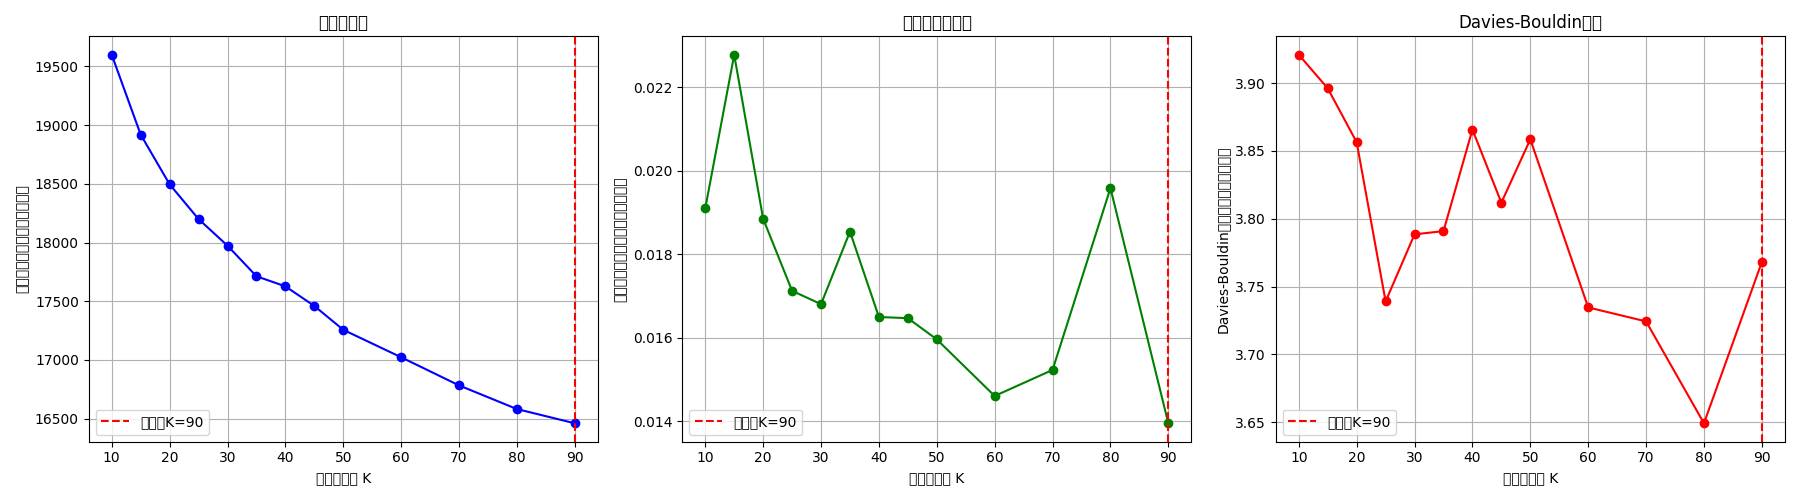
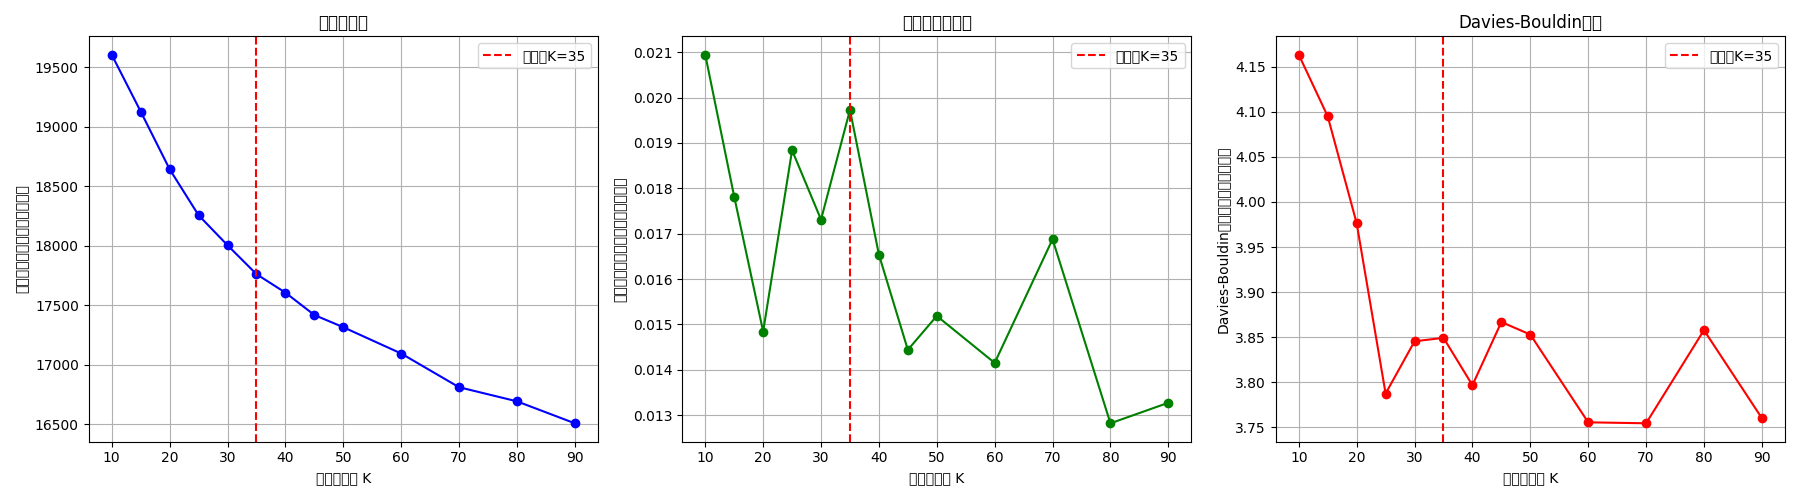
クラスタ数の評価スクリプトの古い K 参照を直し、再評価を実施
評価結果の表示とグラフの基準線が K=90 のまま残っていた。K は 100 から
35 へと変わっており、再評価しても誤った基準線が描かれる状態だった。
CURRENT_K として一箇所にまとめ、デフォルトの候補にも 35 を含めた。

重複除去後の 1,077,442 件で K を再評価した結果、K=35 を維持する。

  シルエット係数  0.0128〜0.0209（最高は K=10 の 0.0209、K=35 は 0.0197）
  Davies-Bouldin  3.7543〜4.1634（最低は K=70、K=35 は 3.8492）
  イナーシャ      K=10→90 で 15.8% 減のみ、肘は見えない

シルエット係数がどの K でも 0.02 前後で、クラスタがほとんど分離して
いない。レビューの埋め込みが連続的に分布しており、明確な塊が存在しない。
指標同士も食い違う（シルエットは K=10、Davies-Bouldin は K=70 を指す）。
K=35 との差はいずれも誤差の範囲で、変更しても推薦品質は改善しない。

diff --git a/20251220/pipeline/04_clustering/evaluate_cluster_number.py b/20251220/pipeline/04_clustering/evaluate_cluster_number.py
@@ -53,7 +53,10 @@ def load_sample_vectors(sample_size=50000):
     print(f"読み込み完了: {X.shape}")
     return X
 
-def evaluate_clusters(X, k_values=[10, 20, 30, 40, 50, 75, 100, 150, 200]):
+CURRENT_K = 35   # review_clustering.py の K と揃える
+
+
+def evaluate_clusters(X, k_values=[10, 20, 30, 35, 40, 50, 60, 75, 100, 150]):
     """
     異なるクラスタ数で評価
     """
@@ -112,7 +115,7 @@ def plot_results(results):
     axes[0].set_ylabel('イナーシャ（低いほど良い）')
     axes[0].set_title('エルボー法')
     axes[0].grid(True)
-    axes[0].axvline(x=90, color='r', linestyle='--', label='現在のK=90')
+    axes[0].axvline(x=CURRENT_K, color='r', linestyle='--', label=f'現在のK={CURRENT_K}')
     axes[0].legend()
 
     # シルエット係数
@@ -121,7 +124,7 @@ def plot_results(results):
     axes[1].set_ylabel('シルエット係数（高いほど良い）')
     axes[1].set_title('シルエット係数')
     axes[1].grid(True)
-    axes[1].axvline(x=90, color='r', linestyle='--', label='現在のK=90')
+    axes[1].axvline(x=CURRENT_K, color='r', linestyle='--', label=f'現在のK={CURRENT_K}')
     axes[1].legend()
 
     # Davies-Bouldin指数
@@ -130,7 +133,7 @@ def plot_results(results):
     axes[2].set_ylabel('Davies-Bouldin指数（低いほど良い）')
     axes[2].set_title('Davies-Bouldin指数')
     axes[2].grid(True)
-    axes[2].axvline(x=90, color='r', linestyle='--', label='現在のK=90')
+    axes[2].axvline(x=CURRENT_K, color='r', linestyle='--', label=f'現在のK={CURRENT_K}')
     axes[2].legend()
 
     plt.tight_layout()
@@ -156,12 +159,12 @@ def print_recommendation(results):
     print(f"\n最高シルエット係数: K={best_k_silhouette} (スコア: {results['silhouette'][best_silhouette_idx]:.4f})")
     print(f"最低Davies-Bouldin: K={best_k_db} (スコア: {results['davies_bouldin'][best_db_idx]:.4f})")
 
-    # 現在のK=90の評価
-    if 90 in results['k']:
-        idx_90 = results['k'].index(90)
-        print(f"\n現在のK=90:")
-        print(f"  シルエット係数: {results['silhouette'][idx_90]:.4f}")
-        print(f"  Davies-Bouldin: {results['davies_bouldin'][idx_90]:.4f}")
+    # 現在のKの評価
+    if CURRENT_K in results['k']:
+        idx = results['k'].index(CURRENT_K)
+        print(f"\n現在のK={CURRENT_K}:")
+        print(f"  シルエット係数: {results['silhouette'][idx]:.4f}")
+        print(f"  Davies-Bouldin: {results['davies_bouldin'][idx]:.4f}")
 
     print("\n推奨:")
     print("  - シルエット係数が高い → クラスタが明確に分離")
